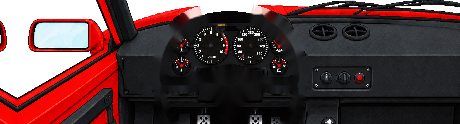
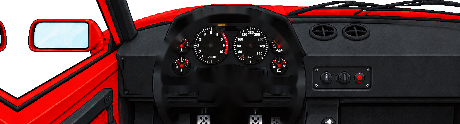
F40: coluna da porta até o teto e volante sem levar a capa do painel
Claude-Session: https://claude.ai/code/session_01MLD9VR7gkmY4w6a9beZcp6

diff --git a/src/cockpit.ts b/src/cockpit.ts
@@ -10,10 +10,13 @@ import { svgSprite } from './svgsprites';
 import dashF40Png from './assets/cockpit/f40-dash.png';
 import wheelF40Png from './assets/cockpit/f40-wheel.png';
 import dash959Png from './assets/cockpit/959-dash.png';
+import top959Png from './assets/cockpit/959-top.png';
+import topF40Png from './assets/cockpit/f40-top.png';
 import wheel959Png from './assets/cockpit/959-wheel.png';
 
 interface CockpitArt {
   dash: string;
+  top: string; // coluna da porta prolongada até o teto (76 linhas acima da arte)
   wheel: string;
   pivot: [number, number]; // centro do aro (pixels nativos, a partir do topo da arte)
   tach: Dial;
@@ -32,18 +35,19 @@ interface Dial { x: number; y: number; r: number; max: number; labels: number[];
 const ART_TOP = 100;
 const DASH_PAD = 102; // colunas extras de cada lado do painel (telas largas), ver import_cockpit.py
 const DASH_W = 256 + 2 * DASH_PAD;
+const TOP_EXT = 76; // linhas do teto (24) até o topo da arte
 const COCKPIT_ART: Record<string, CockpitArt> = {
-  f40: { dash: dashF40Png, wheel: wheelF40Png, pivot: [127.4, 80], 
+  f40: { dash: dashF40Png, top: topF40Png, wheel: wheelF40Png, pivot: [127.4, 80], 
     tach: { x: 109, y: 46, r: 17, max: 10, labels: [0, 1, 2, 3, 4, 5, 6, 7, 8, 9, 10], tick: 0.5, red: 7.75 },
     speed: { x: 149, y: 46, r: 17, max: 360, labels: [0, 40, 80, 120, 160, 200, 240, 280, 320, 360], tick: 20, red: 999 },
     speedMax: 360, needle: '#ff2a1a', hub: '#ff2a1a' },
-  '959': { dash: dash959Png, wheel: wheel959Png, pivot: [127.8, 104], 
+  '959': { dash: dash959Png, top: top959Png, wheel: wheel959Png, pivot: [127.8, 104], 
     tach: { x: 129, y: 66, r: 23, max: 8, labels: [0, 1, 2, 3, 4, 5, 6, 7, 8], tick: 0.5, red: 6.5 },
     speed: { x: 180, y: 68, r: 19, max: 300, labels: [0, 50, 100, 150, 200, 250, 300], tick: 10, red: 999 },
     speedMax: 300, needle: '#ff6a1a', hub: '#1a1a1a' },
 };
 
-export const COCKPIT_IMAGES = Object.values(COCKPIT_ART).flatMap((a) => [a.dash, a.wheel]);
+export const COCKPIT_IMAGES = Object.values(COCKPIT_ART).flatMap((a) => [a.dash, a.top, a.wheel]);
 
 // Cabine a partir da arte: painel, ponteiros dinâmicos, radar e volante girando.
 function drawCockpitArt(c: CanvasRenderingContext2D, r: Race, dt: number, art: CockpitArt): boolean {
@@ -59,6 +63,11 @@ function drawCockpitArt(c: CanvasRenderingContext2D, r: Race, dt: number, art: C
     c.drawImage(dash, DASH_W - 2, 0, 2, 124, dx + DASH_W, ART_TOP, w - dx - DASH_W, 124);
   }
   c.drawImage(dash, dx, ART_TOP);
+  const top = svgSprite(art.top, DASH_W, TOP_EXT);
+  if (top) {
+    if (dx > 0) c.drawImage(top, 0, 0, 2, TOP_EXT, 0, ART_TOP - TOP_EXT, dx, TOP_EXT);
+    c.drawImage(top, dx, ART_TOP - TOP_EXT);
+  }
   artDial(c, art.tach, ox, 0.06 + Math.min(1, r.rpm) * 0.82, art);
   artDial(c, art.speed, ox, (r.speed * KMH) / art.speedMax, art);
   rect(c, ox + 206, ART_TOP + 22, 30, 6, '#0c0c0e');

diff --git a/tools/ref/import_cockpit.py b/tools/ref/import_cockpit.py
@@ -17,17 +17,20 @@ import numpy as np
 from PIL import Image
 
 ROWS = 124  # linhas nativas (a cabine começa na linha 100 da tela e vai até a 224)
+EXT = 76    # linhas entre o teto (24) e o topo da arte (100)
 PAD = 102   # colunas extras de cada lado do painel, para telas largas (até 460 px)
 
 CARS = {
     'f40': {
         'scale': 0.25, 'x0': 338, 'y0': 50,
         'gauges': {'tach': (774, 200, 70), 'speed': (934, 200, 70)},
+        'pillar': (40, 0.40),   # coluna da porta: até x nativo 40, sobe 0,40 px para a esquerda por linha
     },
     '959': {
         'scale': 0.28, 'x0': 241, 'y0': 20,
         'erase': [(852, 276, 912, 298)],
-        'fill_left': (24, 22, 22),                # BGR do pilar, onde a arte acaba          # hodômetro (não é velocímetro digital)
+        'fill_left': (24, 22, 22),
+        'pillar': (-50, 0.0),                # BGR do pilar, onde a arte acaba          # hodômetro (não é velocímetro digital)
         'gauges': {'tach': (696, 211, 84), 'speed': (876, 228, 72)},
     },
 }
@@ -113,6 +116,19 @@ def main():
     d_rgb = sample(cv2.cvtColor(dash, cv2.COLOR_BGR2RGB), nw, nh)
     d_a = sample((~sky).astype(np.uint8) * 255, nw, nh)
     Image.fromarray(np.dstack([d_rgb, d_a]), 'RGBA').save(f'{outdir}/{car}-dash.png')
+    # a arte acaba antes do teto: a coluna da porta é prolongada para cima (linha 0 do
+    # painel repetida e deslocada pela inclinação da coluna) até a linha 24 da tela
+    if 'pillar' in cfg:
+        xmax, k = cfg['pillar']
+        row = np.dstack([d_rgb, d_a])[0].copy()
+        row[PAD + xmax:] = 0
+        top = np.zeros((EXT, nw, 4), np.uint8)
+        for j in range(EXT):
+            d = EXT - j
+            shift = int(round(k * d))
+            if shift >= nw: continue
+            top[j, :nw - shift] = row[shift:]
+        Image.fromarray(top, 'RGBA').save(f'{outdir}/{car}-top.png')
     w_rgb = sample(cv2.cvtColor(img, cv2.COLOR_BGR2RGB), nw, nh)
     w_a = sample((wheel & ~sky0).astype(np.uint8) * 255, nw, nh)
     Image.fromarray(np.dstack([w_rgb, w_a])[:, PAD:PAD + 256], 'RGBA').save(f'{outdir}/{car}-wheel.png')
